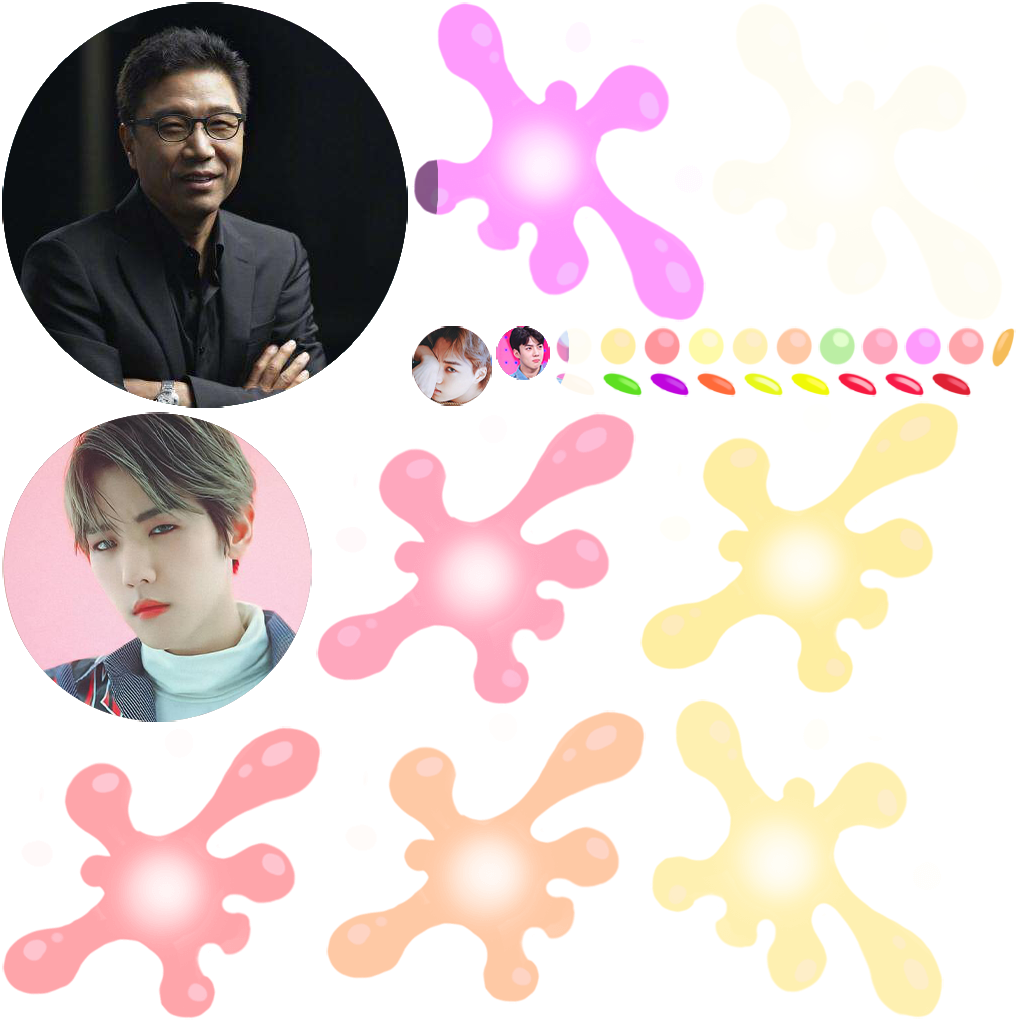
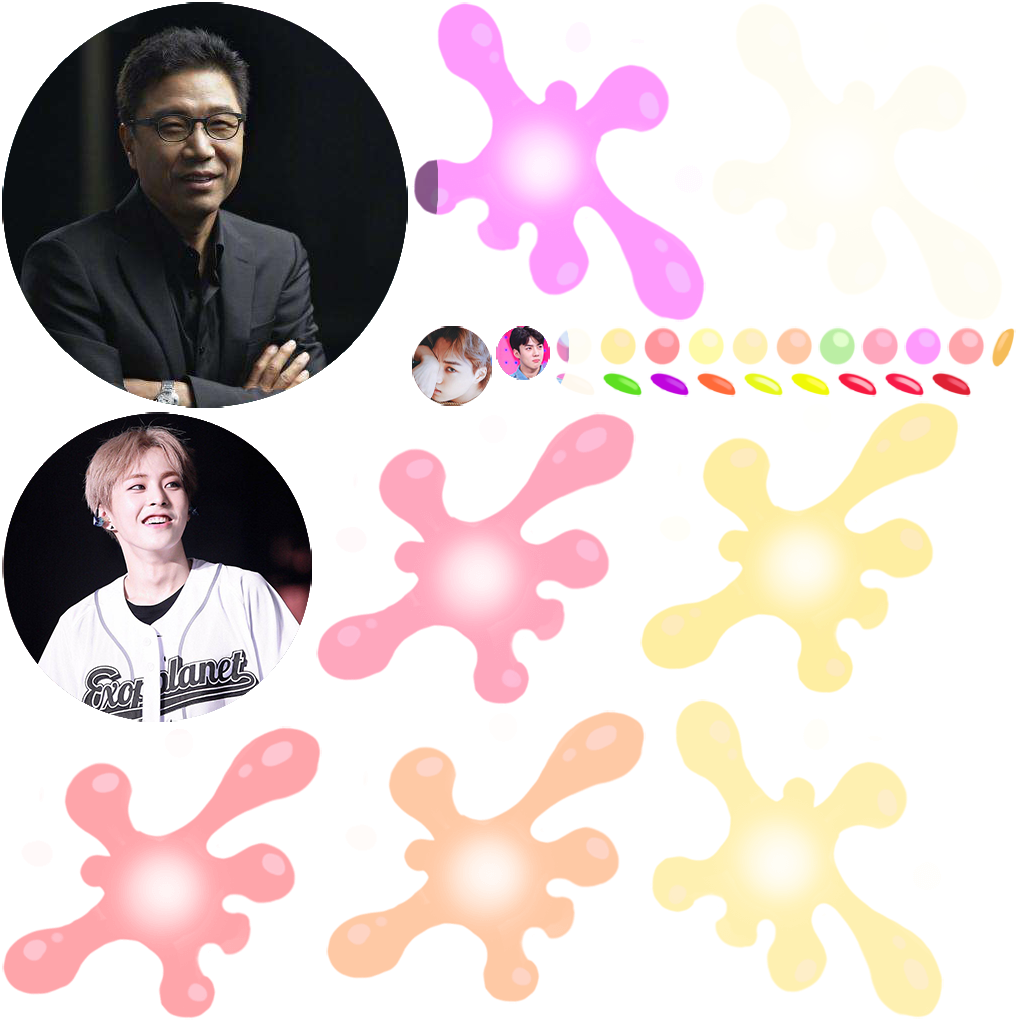
nitial commit、

Changed region(s): [[0.0, 0.3943, 0.3045, 0.728]]

diff --git a/index.html b/index.html
@@ -4,7 +4,7 @@
 <head>
     <meta charset="utf-8">
 
-    <title>合成李秀满</title>
+    <title>合成满满子</title>
 
     <!--http://www.html5rocks.com/en/mobile/mobifying/-->
     <meta name="viewport" content="width=device-width,user-scalable=no,initial-scale=1, minimum-scale=1,maximum-scale=1" />
@@ -109,7 +109,7 @@
             //        console.log("window.navigator.language",window.navigator.language);
 
             if (window.navigator.language == "zh-CN" || window.navigator.language == "zh-cn") {
-                document.title = "合成李秀满";
+                document.title = "合成满满子";
             } 
 
 
